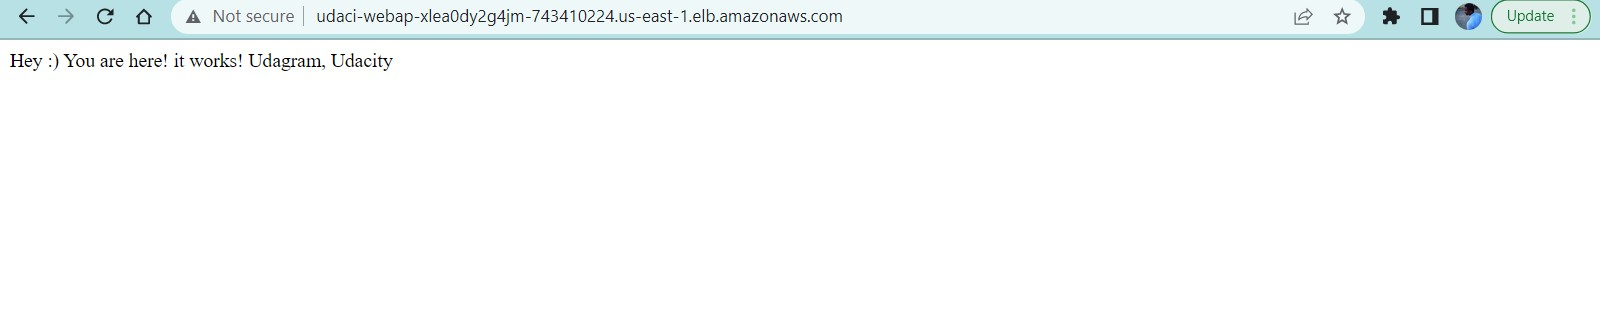
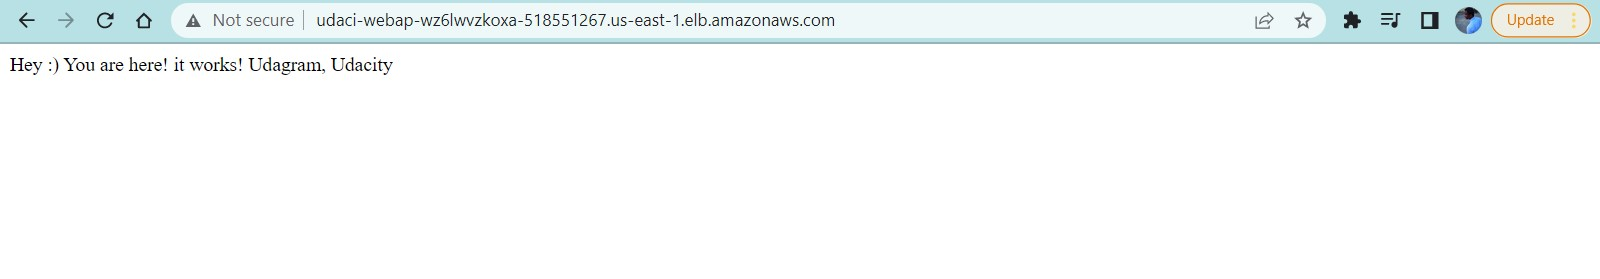
added url

Changed region(s): [[0.0, 0.0, 1.0, 0.2581]]

diff --git a/README.md b/README.md
@@ -1,11 +1,13 @@
 # Final Project - Deploy a High-Availability Web App using CloudFormation 
 
 >Infastructure for a High-Availability Web App
+>
 ![img-1](/AWSDiagram.jpeg)
 
 >Web App Deployment Result - AWS/
 >
->Web Page Url: http://udaci-webap-xlea0dy2g4jm-743410224.us-east-1.elb.amazonaws.com
+>
+>Web Page Url: http://udaci-webap-wz6lwvzkoxa-518551267.us-east-1.elb.amazonaws.com/
 >
 >
 ![img-1](/Images/Wep-App-Page-Result.jpg)
